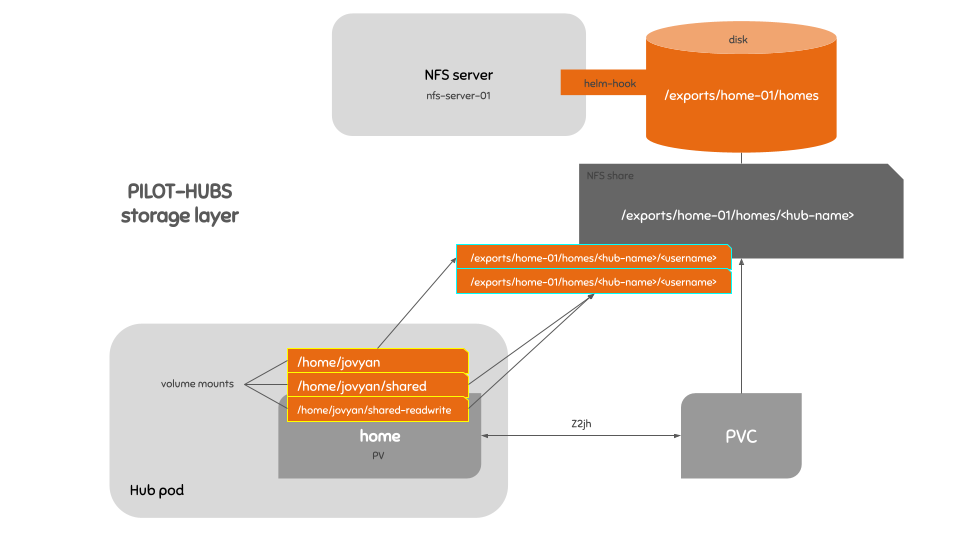
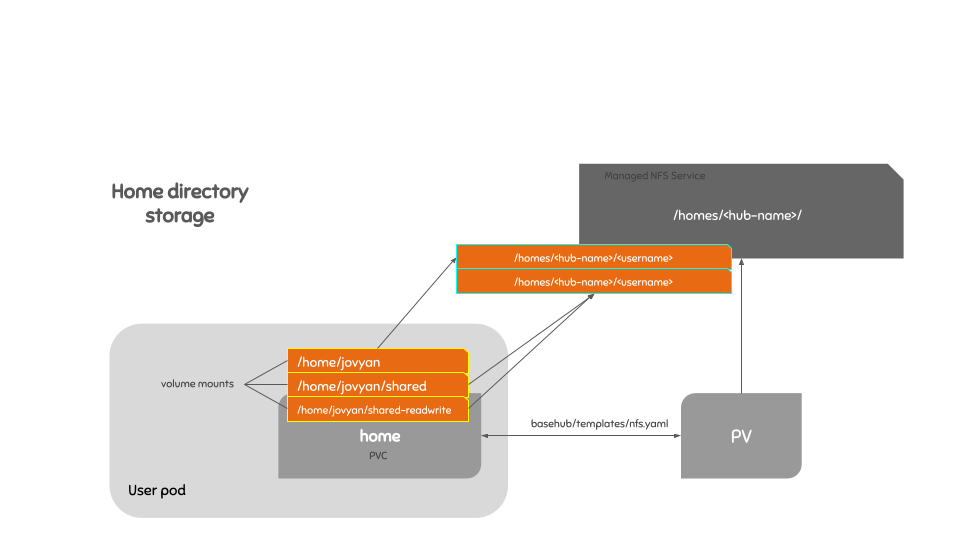
Remove doc references to manually managed NFS
Ref https://github.com/2i2c-org/infrastructure/issues/1105

The servers are all gone now.

The infrastructure diagram was also edited to be slightly
more accurate.

diff --git a/docs/topic/infrastructure/storage-layer.md b/docs/topic/infrastructure/storage-layer.md
@@ -2,43 +2,20 @@
 
 All users on all the hubs get a home directory with persistent storage. 
 
-This is made available through cloud-specific filestores and **sometimes** through a manually-managed Network File System [(NFS)](https://en.wikipedia.org/wiki/Network_File_System) (usually this is the case on GCP clusters that are very price sensitive).
+This is made available through cloud-specific filestores.
 
 ```{figure} ../../images/infrastructure-storage-layer.png
 ```
 
 % The editable version of the diagram is here: https://docs.google.com/presentation/d/1zu7d1mXN6R32i124vtohNXVIpqO-goiY01KzWQsZsas/edit?usp=sharing
 
-## NFS Server provisioned setup
+## Managed NFS Server setup
 
-[Terraform](topic:terraform) is setup to provision the in-cluster NFS server using the following cloud specific implementations.
+[Terraform](topic:terraform) is setup to provision managed NFS server using the following cloud specific implementations.
 
 * GCP: Google Filestore
 * Azure: Files
 * AWS: Elastic File System
-
-## NFS Server setup - only for manually managed servers
-
-```{warning}
-No longer the default option!
-
-Use this as a last resort only on GCP clusters that are very price sensitive.
-Use the cloud-specific filestore as default instead.
-
-Checkout [](howto:manual-nfs-setup)
-```
-
-Some of the 2i2c clusters has a NFS server that is usually located at `nfs-server-01`. This is currently hand configured, so it might change in the future. This NFS Server has a [persistent disk](https://cloud.google.com/persistent-disk) that's independent from rest of the VM (it can be grown / snapshotted independently). This disk is mounted inside the NFS server at `/export/home-01` (for the home directories of users) and is made available via NFS to be mounted by everything in the cluster, via [`/etc/exports`](https://access.redhat.com/documentation/en-us/red_hat_enterprise_linux/5/html/deployment_guide/s1-nfs-server-config-exports):
-
-```
-/export/home-01 10.0.0.0/8(all_squash,anonuid=1000,anongid=1000,no_subtree_check,rw,sync)
-```
-
-```{note}
-To SSH into the NFS server run:
-
-    gcloud compute ssh nfs-server-01 --zone=us-central1-b
-```
 
 ## NFS Client setup
 
@@ -47,16 +24,13 @@ For each hub, there needs to be a:
 ### Hub directory
 
 A directory is created under the path defined by the `nfs.pv.baseShareName` cluster config.
-Usually, this is:
+Usually, this is `/homes` - for hubs that use the managed NFS provider for the cloud platform.
 
-1. `/homes` - for hubs that have in-cluster NFS storage
+Created using the infrastructure described in the [terraform section](topic:terraform).
 
-   Created using the infrastructure described in the [terraform section](topic:terraform).
 
-2. `/export/home-01/homes` - for hubs that have the NFS server deployed manually
-
-  This the the base directory under which each hub has a directory ([`nfs.pv.baseShareName`](https://github.com/2i2c-org/infrastructure/tree/HEAD/helm-charts/basehub/values.yaml#L21)).
-  This is done through [a job](https://github.com/2i2c-org/infrastructure/tree/HEAD/helm-charts/basehub/templates/nfs-share-creator.yaml) that's created for each deployment via [helm hooks](https://helm.sh/docs/topics/charts_hooks/) that will mount `nfs.pv.baseShareName`, and make sure the directory for the hub is present on the NFS server with appropriate permissions.
+This the the base directory under which each hub has a directory ([`nfs.pv.baseShareName`](https://github.com/2i2c-org/infrastructure/tree/HEAD/helm-charts/basehub/values.yaml#L21)).
+This is done through [a job](https://github.com/2i2c-org/infrastructure/tree/HEAD/helm-charts/basehub/templates/nfs-share-creator.yaml) that's created for each deployment via [helm hooks](https://helm.sh/docs/topics/charts_hooks/) that will mount `nfs.pv.baseShareName`, and make sure the directory for the hub is present on the NFS server with appropriate permissions.
 
   ```{note}
   The NFS share creator job will be created pre-deploy, run, and cleaned up before deployment proceeds. Ideally, this would only happen once per hub setup - but we don't have a clear way to do that yet.

diff --git a/docs/index.md b/docs/index.md
@@ -72,7 +72,6 @@ howto/bill.md
 howto/manage-domains/index.md
 howto/grafana-github-auth.md
 howto/update-env.md
-howto/manual-nfs-setup.md
 howto/upgrade-cluster/index.md
 howto/troubleshoot/index.md
 ```
